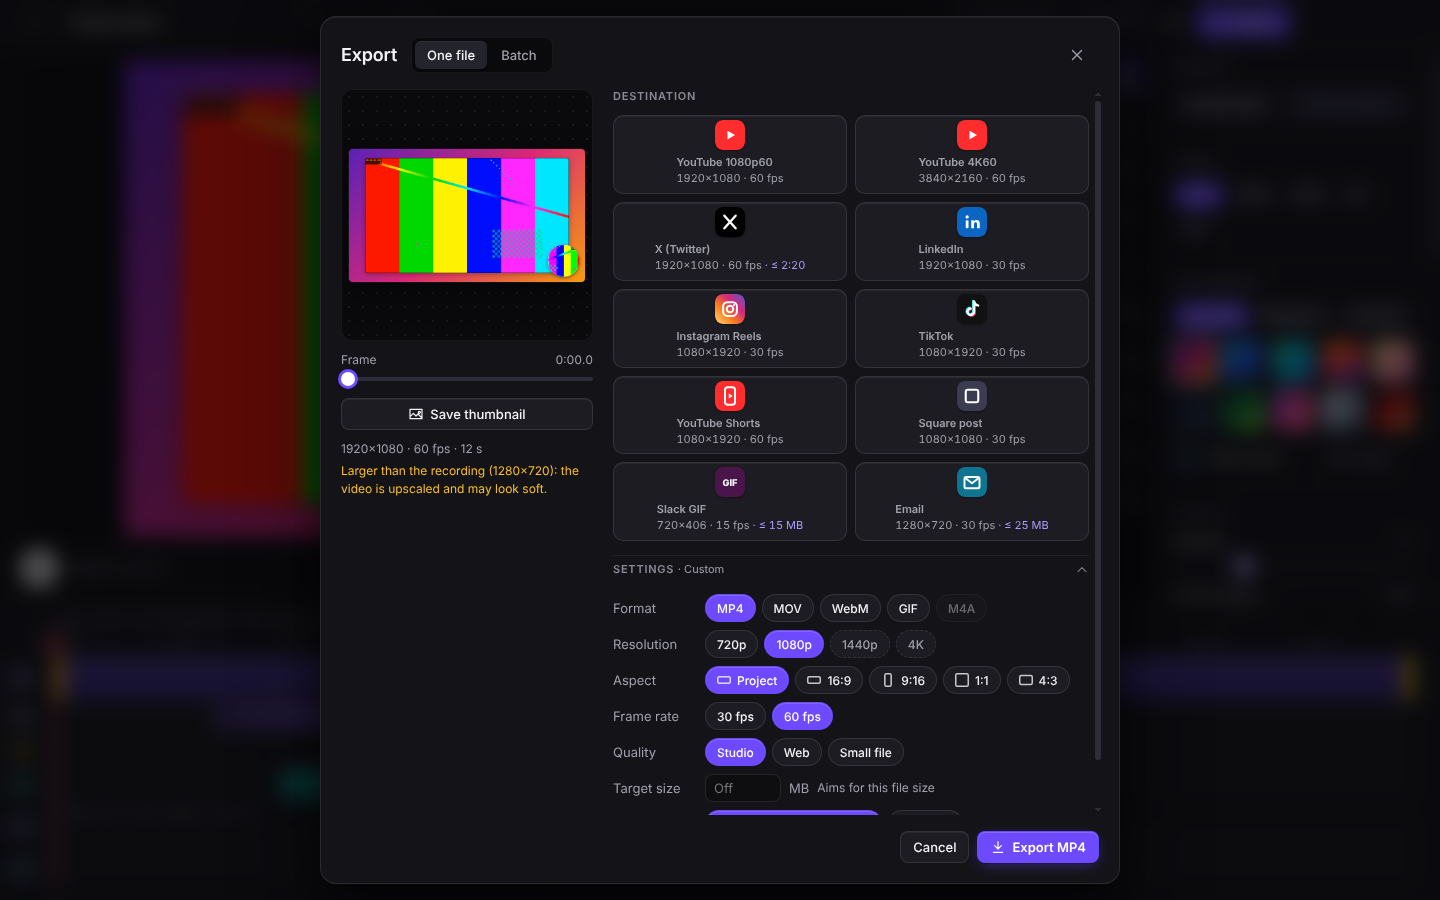
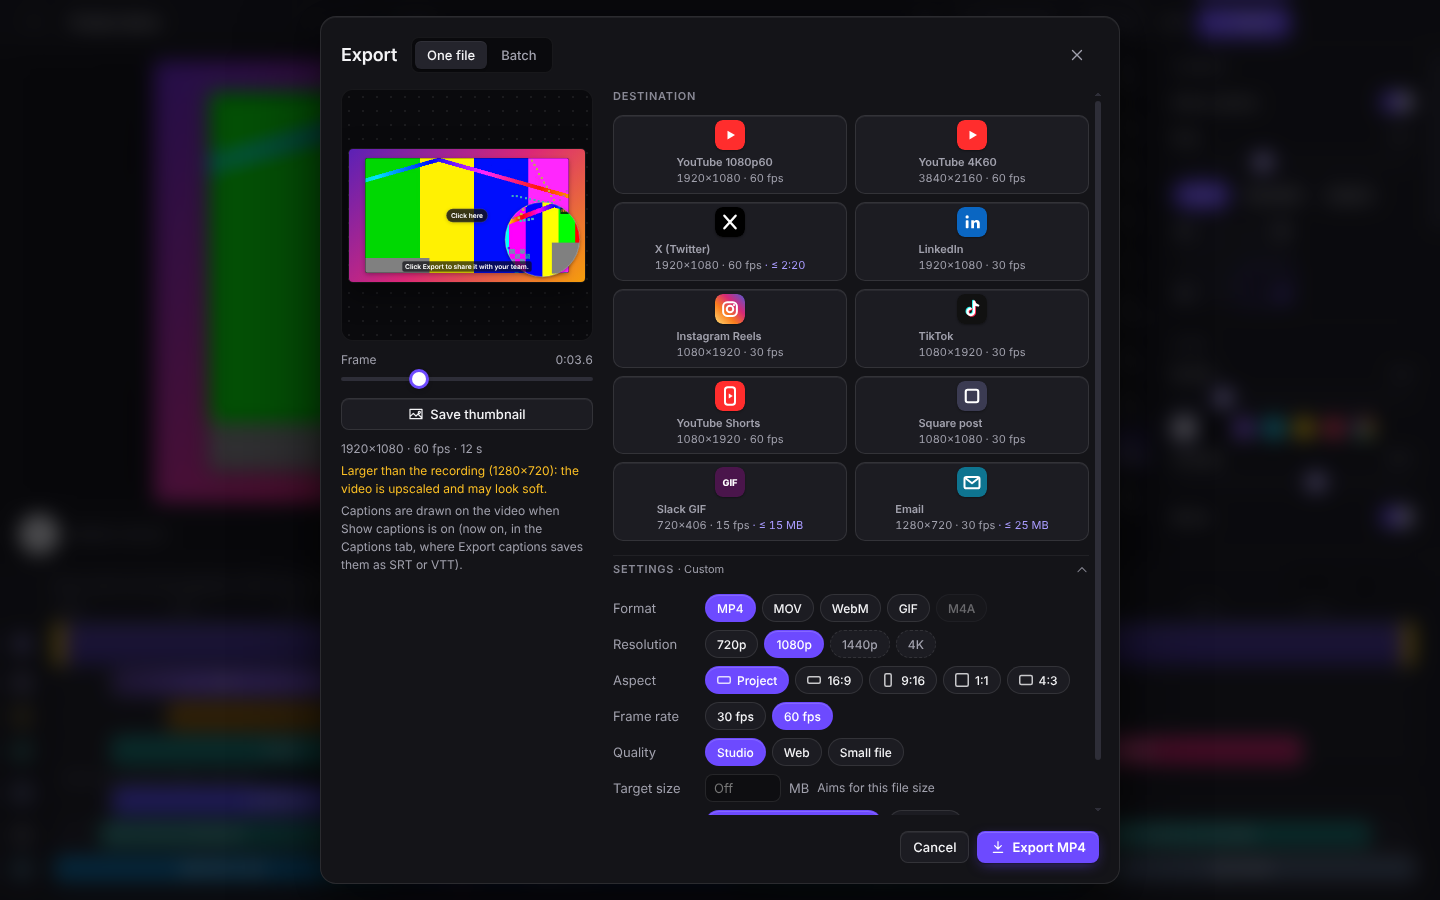
Retake the screenshots on the merged app and show them in the README (UI-12)
Home, the editor's Style, Captions and Camera tabs, the export dialog, Settings
with the AI provider form and the command palette, from seeded projects
(SSW_UI_SHOTS with tests/e2e/ui.e2e.cjs). The old editor-zoom and
editor-shapes shots are removed.

Claude-Session: https://claude.ai/code/session_01WUGBwQ8vJoqr9176Dsm72x

diff --git a/README.md b/README.md
@@ -26,6 +26,22 @@ Built with Electron, React and TypeScript, a small Rust helper for Windows captu
 | **Audio** | Separate microphone and system-sound tracks with their own volume · noise reduction · even out loudness · fades · **background music** that lowers itself while you talk · master volume / mute |
 | **Export** | Destination presets (YouTube, X, LinkedIn, Reels, TikTok, Shorts, Slack, email) · batch export · target file size · MP4 / MOV / WebM / GIF / M4A · PNG thumbnail · MP4 (H.264/AAC) 720p → 4K at 30/60 fps using the GPU when available (WebCodecs, NVENC, Quick Sync, AMF), with software fallback · palette-optimised GIF · exact frames and colours · progress with ETA · **Copy** the exported file to the clipboard to paste into chat apps or Explorer |
 
+## Screenshots
+
+Taken from the built app with seeded projects (`SSW_UI_SHOTS=docs/screenshots` with
+`tests/e2e/ui.e2e.cjs`).
+
+| | |
+| --- | --- |
+| ![Home: pick what to record, recent recordings](docs/screenshots/home.png) | ![Editor, Style tab](docs/screenshots/editor-style.png) |
+| **Home**: pick a screen, window or area; recent recordings | **Editor**: background, padding, corners and shadow in the Style tab |
+| ![Editor, Captions tab](docs/screenshots/editor-captions.png) | ![Editor, Camera tab](docs/screenshots/editor-camera.png) |
+| **Captions**: generated captions on their own track, styles and position | **Camera**: webcam bubble and camera layouts over time |
+| ![Export dialog](docs/screenshots/export.png) | ![Settings, adding an AI provider](docs/screenshots/settings-ai.png) |
+| **Export**: destination presets, format, resolution and quality | **Settings**: your own OpenAI, Gemini or Claude key for captions and transcript tools |
+| ![Command palette](docs/screenshots/palette.png) | |
+| **Command palette** (`Ctrl+K`): every editor action by name | |
+
 ## Getting started
 
 Requirements: Windows 10 (2004+) or 11 to run the app; Node.js **20.19+ or 22.12+** to build it.
